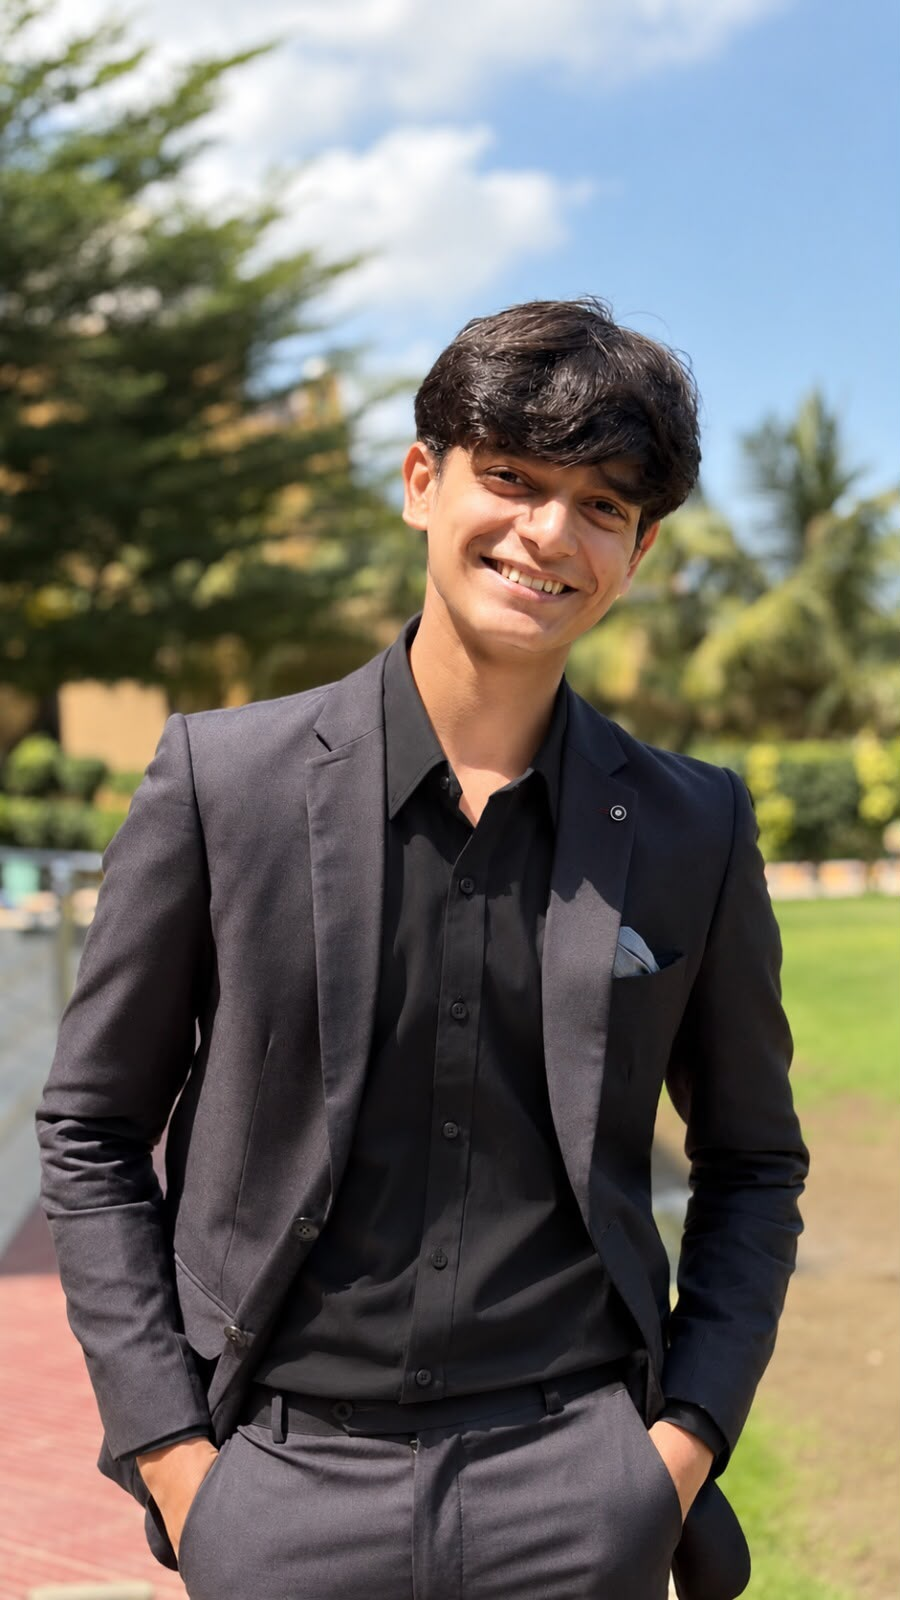
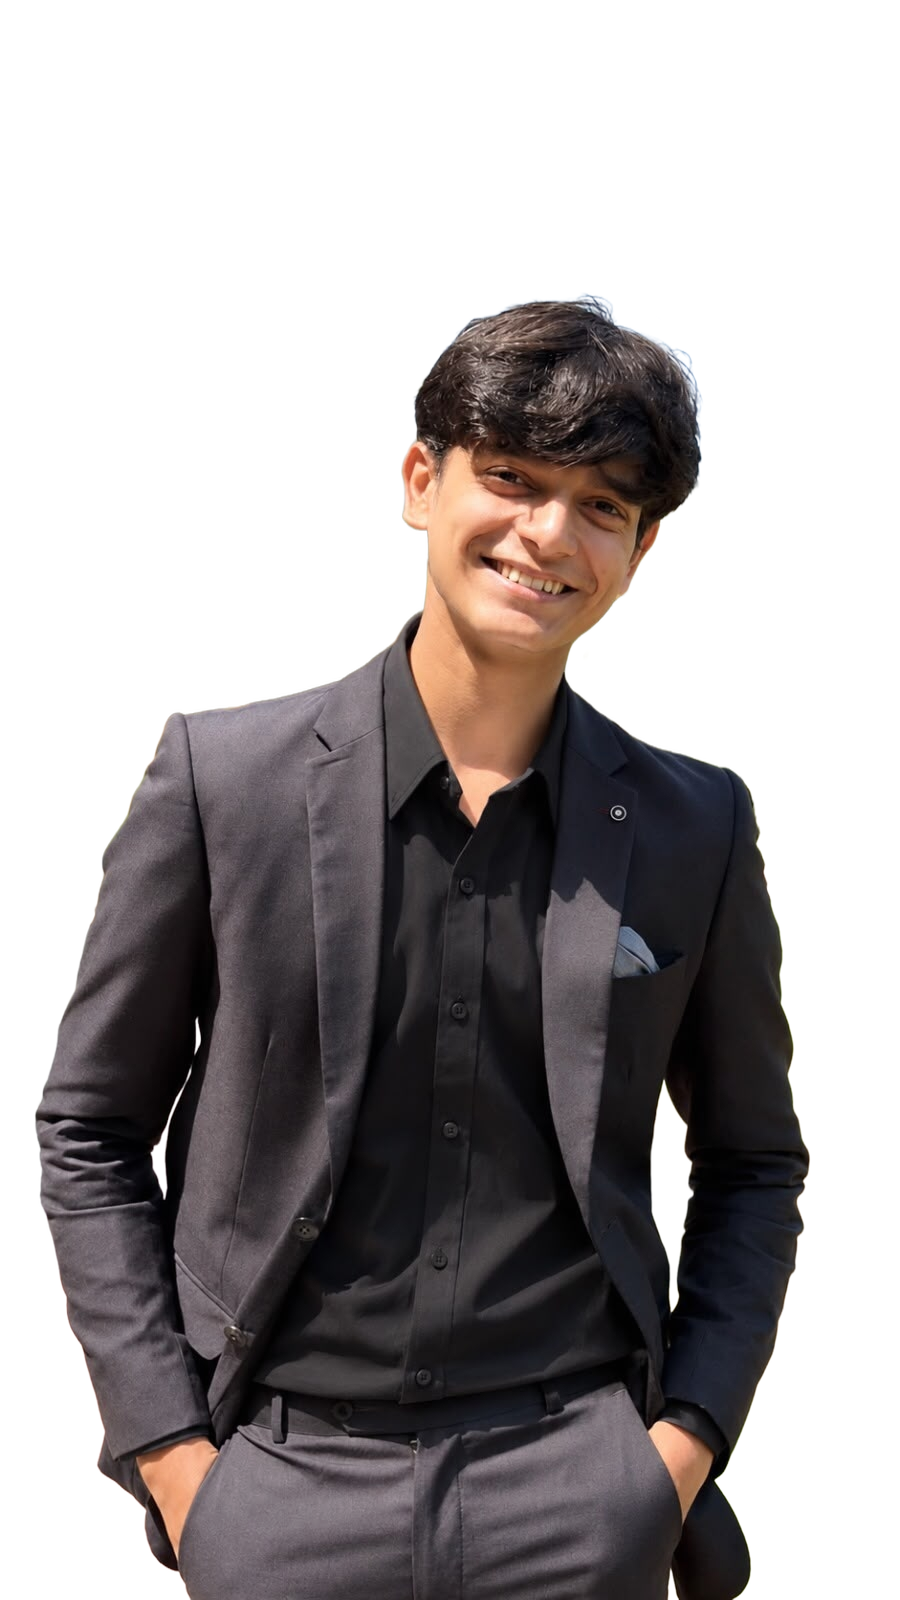
Update team member images and code

diff --git a/src/app/team/team.css b/src/app/team/team.css
@@ -247,7 +247,7 @@
     display: flex;
     flex-wrap: wrap;
     justify-content: center;
-    align-items: start; /* only the hovered card grows, its neighbours keep their height */
+    align-items: start;
     gap: 1.25rem;
     width: 100%;
     max-width: calc(3 * var(--card-w) + 2 * 1.25rem);
@@ -289,26 +289,88 @@
     }
 }
 
-/* ---------- Member card ---------- */
+/* ---------- Member: floating circular photo with an orbiting ring (no box) ---------- */
 .member {
     position: relative;
     box-sizing: border-box;
     flex-shrink: 0;
+    width: var(--card-w);
+    container-type: inline-size; /* lets the code font scale with the card width */
+}
+
+/* The photo + name is one real button, so it works with mouse, keyboard and touch */
+.member-trigger {
+    position: relative;
+    z-index: 2; /* stays above the details panel, so the photo overlaps its top edge */
     display: flex;
     flex-direction: column;
     align-items: center;
-    width: var(--card-w);
-    --pad: 1.25rem;
-    padding: var(--pad);
-    container-type: inline-size; /* lets the code font scale with the card width */
-    background: var(--bg-card, #161b22);
-    border: 1px solid var(--border-default);
-    border-radius: 12px;
-    transition: transform 0.2s ease, box-shadow 0.2s ease, border-color 0.2s ease;
+    width: 100%;
+    padding: 0.9rem 0.5rem 0.6rem;
+    margin: 0;
+    background: none;
+    border: 0;
+    border-radius: 16px;
+    color: inherit;
+    cursor: pointer;
+    -webkit-tap-highlight-color: transparent;
+}
+
+.member-trigger:focus-visible {
+    outline: var(--control-focus);
+    outline-offset: var(--control-focus-offset);
+}
+
+/* photo + ring */
+.member-orbit {
+    --orbit-size: 128px; /* change this one value to resize every photo on the page */
+    position: relative;
+    display: block;
+    width: var(--orbit-size);
+    height: var(--orbit-size);
+    transition: transform 0.3s ease;
+}
+
+.member-orbit .member-photo {
+    --photo-size: var(--orbit-size);
+    transition: box-shadow 0.3s ease;
+}
+
+/* thin dashed ring around the photo with a small dot travelling along it */
+.member-ring {
+    position: absolute;
+    inset: -12px;
+    border: 1.5px dashed rgb(88 166 255 / 40%);
+    border-radius: 50%;
+    pointer-events: none;
+    animation: member-spin 30s linear infinite;
+    transition: border-color 0.3s ease, box-shadow 0.3s ease;
+}
+
+.member-ring::after {
+    content: "";
+    position: absolute;
+    top: -4.5px;
+    left: calc(50% - 4px);
+    width: 8px;
+    height: 8px;
+    background: var(--accent-green, #3fb950);
+    border-radius: 50%;
+    box-shadow: 0 0 10px var(--accent-green, #3fb950);
+}
+
+/* every other ring turns the other way, so the row feels alive but not synchronised */
+.member:nth-child(even) .member-ring {
+    animation-duration: 38s;
+    animation-direction: reverse;
+}
+
+@keyframes member-spin {
+    to { transform: rotate(360deg); }
 }
 
 .member-photo {
-    --photo-size: 128px; /* change this one value to resize every photo */
+    --photo-size: 128px;
     flex: 0 0 auto;
     display: grid;
     place-items: center;
@@ -331,49 +393,60 @@
     width: 100%;
     height: 100%;
     object-fit: cover;
+    object-position: center 20%; /* keeps faces in view */
 }
 
-/* The photo is a real button, so it works with mouse, keyboard and touch */
-.member-trigger {
-    display: grid;
-    place-items: center;
-    width: 100%;
-    padding: 0;
-    margin: 0;
-    background: none;
-    border: 0;
-    color: inherit;
-    cursor: pointer;
-    -webkit-tap-highlight-color: transparent;
+/* name + role under the photo, so you always know who it is */
+.member-caption {
+    display: block;
+    margin-top: 1.25rem;
+    text-align: center;
+    transition: opacity 0.25s ease;
 }
 
-.member-trigger:focus-visible {
-    outline: var(--control-focus);
-    outline-offset: var(--control-focus-offset);
-    border-radius: 12px;
+.member-caption strong {
+    display: block;
+    color: var(--text-heading, #ffffff);
+    font-size: 1rem;
+    line-height: 1.3;
+    text-wrap: balance;
 }
 
-/* Details (laptop): a dark, see-through layer over the photo; the text sits at the bottom */
+.member-caption span {
+    display: block;
+    margin-top: 0.2rem;
+    color: var(--accent-green, #3fb950);
+    font-family: var(--font-mono, "JetBrains Mono", monospace);
+    font-size: 0.72rem;
+}
+
+/* Details (laptop): a dark glass panel below the photo; the photo overlaps its top edge */
 .member-reveal {
     position: absolute;
-    inset: 0;
-    display: flex;
-    align-items: flex-end;
-    padding: 0.75rem;
-    border-radius: inherit;
-    background: linear-gradient(
-        to bottom,
-        rgba(1, 4, 9, 0.05) 0%,
-        rgba(1, 4, 9, 0.6) 35%,
-        rgba(1, 4, 9, 0.94) 100%
-    );
+    top: 5.5rem;
+    left: 0;
+    right: 0;
+    z-index: 1;
+    padding: 4.6rem 0.9rem 0.9rem;
+    background: rgba(13, 17, 23, 0.86);
+    -webkit-backdrop-filter: blur(10px);
+    backdrop-filter: blur(10px);
+    border: 1px solid rgb(88 166 255 / 45%);
+    border-radius: 16px;
+    box-shadow: 0 12px 32px rgba(1, 4, 9, 0.6), 0 0 24px rgba(88, 166, 255, 0.18);
     opacity: 0;
-    pointer-events: none; /* clicks and hover go to the photo button underneath */
-    transition: opacity 0.3s ease;
+    visibility: hidden;
+    transform: translateY(8px);
+    pointer-events: none;
+    transition: opacity 0.25s ease, transform 0.25s ease, visibility 0.25s ease;
 }
 
-/* keep the text block at the bottom of the layer, not stretched over the whole card */
 .member-reveal .member-code {
+    font-size: clamp(0.62rem, calc(100cqw / 22), 0.72rem);
+    line-height: 1.6;
+}
+
+.member-code {
     align-self: flex-end;
     width: 100%;
 }
@@ -419,54 +492,41 @@
     .member-reveal { display: none; }
 }
 
-/* ---------- Laptop / tablet card: fixed size, photo grows to fill the card on hover ---------- */
-@media (min-width: 701px) {
-    .member {
-        padding: 0;
-        aspect-ratio: 13 / 16;
-        overflow: hidden; /* the growing photo is clipped to the card's rounded corners */
-    }
-
-    .member-trigger {
-        position: absolute;
-        inset: 0;
-        display: block;
-        height: 100%;
-        border-radius: inherit;
-    }
-
-    .member-trigger:focus-visible {
-        outline-offset: -4px;
-    }
-
-    .member-trigger .member-photo {
-        --photo-size: 140px;
-        position: absolute;
-        top: 50%;
-        left: 50%;
-        transform: translate(-50%, -50%);
-        max-width: none;
-        transition: width 0.35s ease, height 0.35s ease, border-radius 0.35s ease, border-color 0.35s ease;
-    }
-
-    .member-trigger .member-photo img {
-        object-position: center 20%; /* keep faces in view when the photo is cropped to the card */
-    }
-}
-
+/* Laptop hover / keyboard focus: ring glows, photo lifts, name fades out, details slide in */
 @media (min-width: 701px) and (hover: hover) {
-    .member:hover .member-trigger .member-photo,
-    .member:has(.member-trigger:focus-visible) .member-trigger .member-photo {
-        width: 100%;
-        height: 100%;
-        border-radius: 0;
-        border-color: transparent;
+    .member:hover,
+    .member:has(.member-trigger:focus-visible) {
+        z-index: 10; /* the panel may overlap the row below, so lift the whole member */
+    }
+
+    .member:hover .member-orbit,
+    .member:has(.member-trigger:focus-visible) .member-orbit {
+        transform: translateY(-4px);
+    }
+
+    .member:hover .member-ring,
+    .member:has(.member-trigger:focus-visible) .member-ring {
+        border-color: var(--accent-blue, #58a6ff);
+        box-shadow: 0 0 22px rgba(88, 166, 255, 0.35);
+    }
+
+    .member:hover .member-caption,
+    .member:has(.member-trigger:focus-visible) .member-caption {
+        opacity: 0;
     }
 
     .member:hover .member-reveal,
     .member:has(.member-trigger:focus-visible) .member-reveal {
         opacity: 1;
+        visibility: visible;
+        transform: none;
+        pointer-events: auto; /* moving the mouse onto the panel keeps it open */
     }
+}
+
+/* Touch devices and phones use the popup, so the hover panel is removed */
+@media (hover: none), (max-width: 700px) {
+    .member-reveal { display: none; }
 }
 
 /* ---------- Popup (touch devices and phones) ---------- */
@@ -528,17 +588,18 @@
 }
 
 @media (prefers-reduced-motion: reduce) {
-    .member,
-    .member-reveal,
-    .member-trigger .member-photo {
-        transition: none;
+    .member-ring {
+        animation: none;
     }
-    .member:hover {
-        transform: none;
+    .member-orbit,
+    .member-ring,
+    .member-caption,
+    .member-reveal {
+        transition: none;
     }
 }
 
-/* ---------- Phones: photo-only cards, two per row, all identical ---------- */
+/* ---------- Phones: floating photos with name, two per row ---------- */
 @media (max-width: 700px) {
     .team-page {
         width: calc(100% - 2rem);
@@ -568,12 +629,18 @@
     .member {
         width: calc(50% - 0.375rem);
         max-width: 180px;
-        --pad: 0.75rem;
     }
 
-    .member-photo {
-        --photo-size: 110px;
+    .member-orbit {
+        --orbit-size: 100px;
     }
+
+    .member-caption {
+        margin-top: 1.1rem;
+    }
+
+    .member-caption strong { font-size: 0.85rem; }
+    .member-caption span   { font-size: 0.62rem; }
 
     .tech-section-heading { align-items: start; flex-direction: column; gap: 1rem; margin-bottom: 1.5rem; }
     .tech-lead-node { align-items: flex-start; padding: .25rem 0 .75rem; }

diff --git a/src/content/team.js b/src/content/team.js
@@ -5,25 +5,27 @@
 // id is optional (faculty have none).
 export const tiers = [
   { level: 0, label: "faculty", heading: "Faculty" },
-  { level: 1, label: "leadership & management", heading: "ExCom" },
-  { level: 2, label: "department_heads" },
+  { level: 1, label: "leadership", heading: "ExCom" },
+  { level: 2, label: "management" },
+  { level: 3, label: "department heads"}
 ];
 
 export const teamMembers = [
   // Faculty
-  { slug: "faculty-head", tier: 0, name: "Sir Jahanzaib", role: "Faculty Head", photo: "/images/Team/faculty_head.png" },
-  { slug: "faculty-co-head", tier: 0, name: "Sir Atif Luqman", role: "Faculty Co-Head", photo: "/images/Team/faculty_cohead.png" },
+  { slug: "faculty-head", tier: 0, name: "Sir Jahanzaib", role: "Faculty Head", photo: "/images/Team/faculty_head(1).png" },
+  { slug: "faculty-co-head", tier: 0, name: "Sir Atif Luqman", role: "Faculty Co-Head", photo: "/images/Team/faculty_cohead(1).png" },
 
-  // ExCom: leadership and management. President and VP lead on mobile and sit centrally on desktop.
-  { slug: "president", tier: 1, name: "Fizza Batool (CS)", id: "24K-0587", role: "President", photo: "/images/Team/fizza_batool.png" },
+  // ExCom: leadership. President and VP lead on mobile and sit centrally on desktop.
+  { slug: "president", tier: 1, name: "Fizza Batool (CS)", id: "24K-0587", role: "President", photo: "/images/Team/fizza_batool(1).png" },
   { slug: "vice-president", tier: 1, name: "Aazan Noor Khuwaja (CS)", id: "24P-0706", role: "Vice President", photo: "/images/Team/aazan-noor-khuwaja.png" },
-  { slug: "general-secretary", tier: 1, name: "Syeda Samana Zehra Rizvi (CS)", id: "24K-0710", role: "General Secretary", photo: "/images/Team/fizza_batool.png" },
-  { slug: "treasurer", tier: 1, name: "Talha Yousuf (DS)", id: "25K-2533", role: "Treasurer", photo: "/images/Team/Talha_Yousuf.png" },
+  // ExCom: management.
+  { slug: "general-secretary", tier: 2, name: "Syeda Samana Zehra Rizvi (CS)", id: "24K-0710", role: "General Secretary", photo: "/images/Team/Samana(1).png" },
+  { slug: "treasurer", tier: 2, name: "Talha Yousuf (DS)", id: "25K-2533", role: "Treasurer", photo: "/images/Team/Talha_Yousuf(1).png" },
+  { slug: "sop-compliance-head", tier: 2, name: "Syeda Maha Fatima (CS)", id: "24K-0624", role: "SOP Compliance Head", photo: "/images/Team/syeda_maha_fatima.png" },
 
   // ExCom: department heads
-  { slug: "technical-head", tier: 2, name: "Hunza Shahzadi (DS)", id: "25K-2536", role: "Technical Head", photo: "/images/Team/fizza_batool.png" },
-  { slug: "event-manager", tier: 2, name: "Aryaan Taimur Saeed (DS)", id: "25K-2540", role: "Event Manager", photo: "/images/Team/Aryaan_Taimur.png" },
-  { slug: "media-promotions-head", tier: 2, name: "Isbah Rani Abbasi (CS)", id: "24K-0698", role: "Media & Promotions Head", photo: "/images/Team/isbah_rani_abbasi.png" },
-  { slug: "guest-relations-head", tier: 2, name: "Mahrukh Siddiqui (AI)", id: "25K-0147", role: "Guest Relations Head", photo: "/images/Team/fizza_batool.png" },
-  { slug: "sop-compliance-head", tier: 2, name: "Syeda Maha Fatima (CS)", id: "24K-0624", role: "SOP Compliance Head", photo: "/images/Team/syeda_maha_fatima.png" },
+  { slug: "technical-head", tier: 3, name: "Hunza Shahzadi (DS)", id: "25K-2536", role: "Technical Head", photo: "/images/Team/hunza.png" },
+  { slug: "event-manager", tier: 3, name: "Aryaan Taimur Saeed (DS)", id: "25K-2540", role: "Event Manager", photo: "/images/Team/Aryaan_Taimur.png" },
+  { slug: "media-promotions-head", tier: 3, name: "Isbah Rani Abbasi (CS)", id: "24K-0698", role: "Media & Promotions Head", photo: "/images/Team/isbah_rani_abbasi(1).png" },
+  { slug: "guest-relations-head", tier: 3, name: "Mahrukh Siddiqui (AI)", id: "25K-0147", role: "Guest Relations Head", photo: "/images/Team/Mahrukh.png" },
 ];

diff --git a/src/app/team/MemberCard.jsx b/src/app/team/MemberCard.jsx
@@ -77,10 +77,17 @@ export default function MemberCard({ member }) {
   return (
     <li className="member">
       <button type="button" className="member-trigger" onClick={handleClick} aria-label={label}>
-        <Photo member={member} />
+        <span className="member-orbit">
+          <span className="member-ring" aria-hidden="true" />
+          <Photo member={member} />
+        </span>
+        <span className="member-caption" aria-hidden="true">
+          <strong>{name}</strong>
+          <span>{member.role}</span>
+        </span>
       </button>
 
-      {/* Laptop: dark layer over the photo on hover / keyboard focus */}
+      {/* Laptop: dark glass panel under the photo on hover / keyboard focus */}
       <div className="member-reveal" aria-hidden="true">
         <CodeBlock member={member} name={name} dept={dept} />
       </div>
